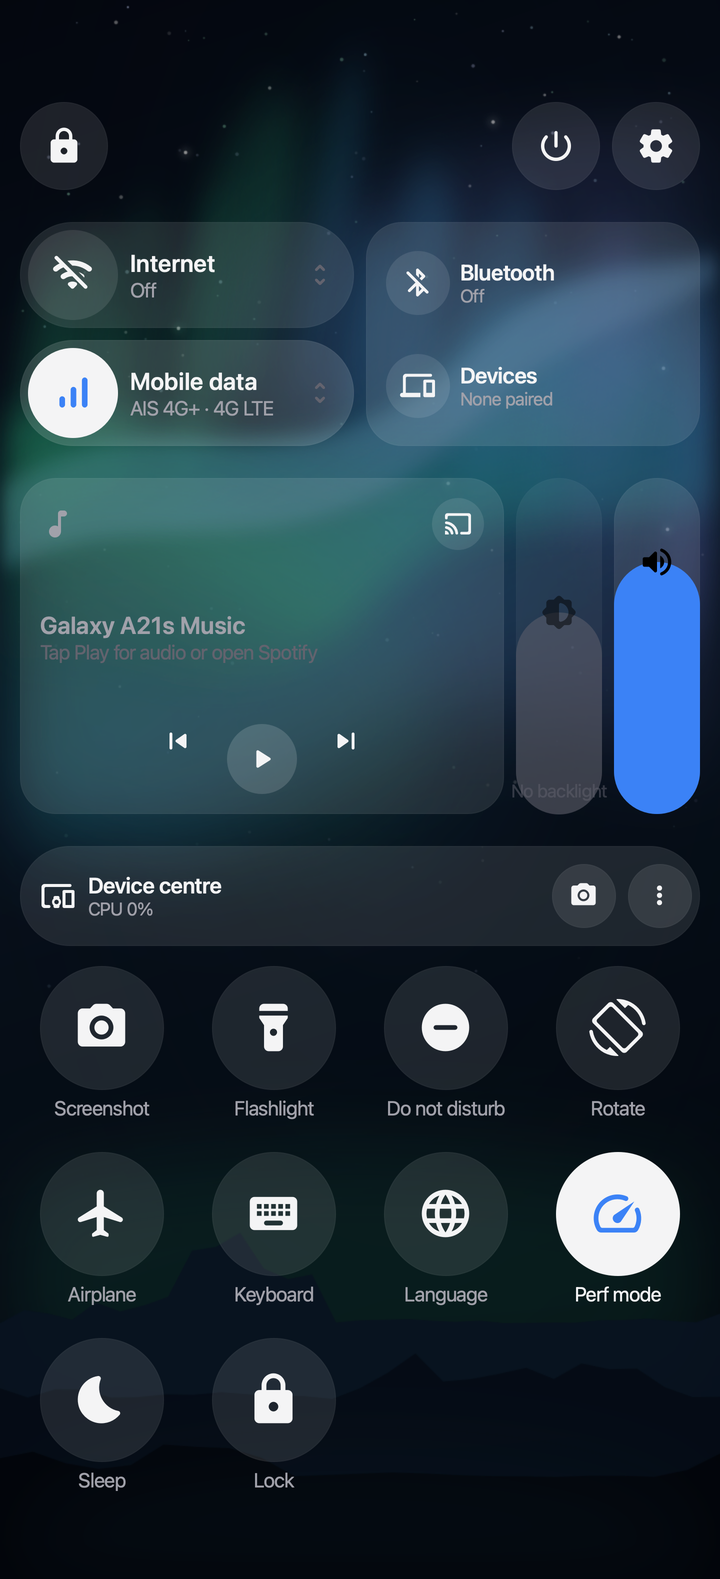
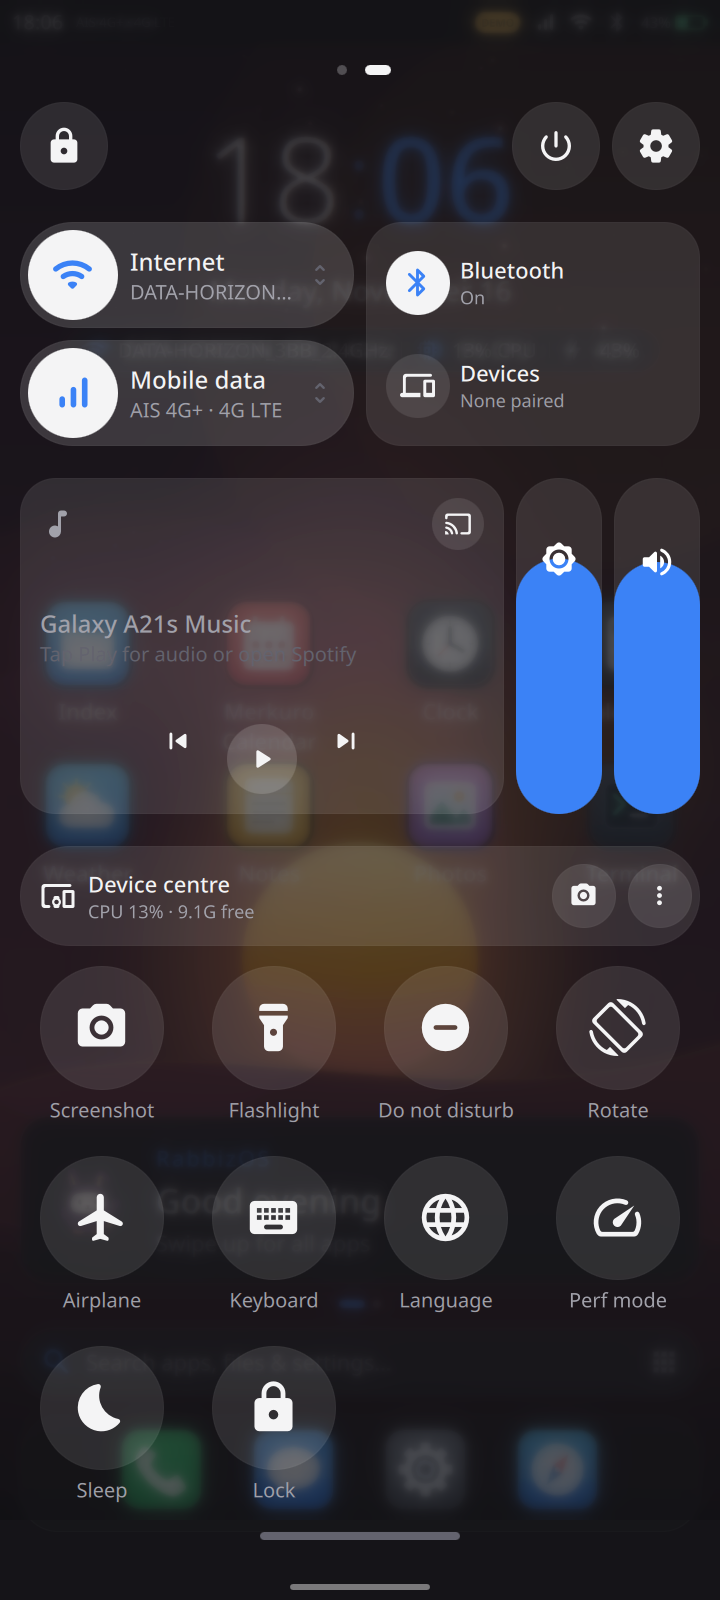
Shade: pager steals drags, fix accent glyph colour (deployed on A21s)
Follow-up to a339df4 after deploying to the phone and exercising it with injected
touches. Three defects only the device could show.

- Shade.qml had lost its A21s.Widgets import when the header pills were removed,
  but still uses BackdropBlur: the whole shade failed to load and the session ran
  with no shell UI until the import came back.
- Page swiping only worked in the 20 px gutters: the tiles, cards and sliders are
  MouseAreas that swallow drags, so the old MouseArea-based pager never saw them.
  The pager is now a DragHandler with grabPermissions CanTakeOverFromAnything and
  xAxis only, so a sideways drag over any tile switches pages while vertical
  drags still scroll, move sliders and pull the sheet closed.
- ShellPrefs.onAccentColor has always evaluated to black: QML parses
  "on<Capitalized>" next to the sibling accentColor property as a signal handler,
  so the declaration never receives its initialiser (Theme.qml documents the same
  trap for primaryContent). The shade now uses the new ShellPrefs.accentContent;
  the legacy name is untouched for the apps that still bind it - sweeping those
  callers is a separate change.

ipc shade state now also reports page, mode, pageHeight, controlsContent and
controlsScrolling, which is how the fit and the pager were measured.

Verified on the A21s (720x1600, clean quickshell log): category grouping and
per-app collapse, tap-to-expand, x dismiss, clear-all, page swipes both
[…]

diff --git a/shell/A21s/Panels/Shade.qml b/shell/A21s/Panels/Shade.qml
@@ -5,6 +5,7 @@ import QtQuick
 import QtQuick.Layouts
 import A21s.Theme
 import A21s.Services
+import A21s.Widgets
 
 // Pull-down notification / quick-settings shade.
 //
@@ -79,7 +80,10 @@ PanelWindow {
             return JSON.stringify({ progress: ShellState.shadeProgress, gpu: win.gpu,
                 captured: backdrop.hasContent, sourceWidth: backdrop.sourceSize.width,
                 sourceHeight: backdrop.sourceSize.height, windowHeight: win.height,
-                visibleHeight: win.visibleHeight })
+                visibleHeight: win.visibleHeight, page: win.pageShift,
+                mode: ShellState.shadeMode, pageHeight: ctrlPage.height,
+                controlsContent: quickControls.contentHeight,
+                controlsScrolling: quickControls.scrolling })
         }
     }
     readonly property bool gpu: content.GraphicsInfo.api === GraphicsInfo.OpenGL
@@ -100,7 +104,6 @@ PanelWindow {
         interval: 250
         running: win.gpu && ShellState.shadeProgress > 0 && !backdrop.hasContent
     }
-    property real pageDragStart: 0.0
     Behavior on pageShift {
         enabled: !win.pageDragging
         NumberAnimation { duration: Theme.animMed; easing.type: Easing.OutCubic }
@@ -126,51 +129,30 @@ PanelWindow {
             preventStealing: true
 
             property real pressY: 0
-            property real pressX: 0
             property real pressProgress: 0
 
             onPressed: function(mouse) {
                 snap.stop()
                 pressY = mouse.y
-                pressX = mouse.x
                 pressProgress = ShellState.shadeProgress
-                win.pageDragging = false
-                win.pageDragStart = win.pageShift
                 if (ShellState.shadeProgress < 0.05) {
                     ShellState.shadeMode = mouse.x < win.width / 2 ? "notifications" : "settings"
                     win.pageShift = ShellState.shadeMode === "settings" ? 1.0 : 0.0
                 }
             }
             onPositionChanged: function(mouse) {
-                if (!pressed)
+                if (!pressed || win.pageDragging)
                     return
-                const dy = mouse.y - pressY
-                const dx = mouse.x - pressX
-                // Decide the axis once: once the gesture is clearly sideways the page
-                // follows the finger and the vertical progress is frozen.
-                if (!win.pageDragging && Math.abs(dx) > 14 && Math.abs(dx) > Math.abs(dy) * 1.2)
-                    win.pageDragging = true
-                if (win.pageDragging) {
-                    win.pageShift = Math.max(0, Math.min(1, win.pageDragStart - dx / win.width))
-                    return
-                }
+                // Vertical only: sideways page drags are owned by the DragHandler
+                // below, which can steal the grab from tiles and sliders.
                 const range = Math.max(1, win.fullH - Theme.shadeHandleZone)
                 ShellState.shadeProgress = Math.max(0, Math.min(1,
-                    pressProgress + dy / range))
+                    pressProgress + (mouse.y - pressY) / range))
             }
             onReleased: function(mouse) {
-                const dy = mouse.y - pressY
-                const dx = mouse.x - pressX
-                if (win.pageDragging) {
-                    // past 35 % of the width (or a clear flick) commits the page
-                    const target = (Math.abs(dx) > win.width * 0.35)
-                        ? (dx < 0 ? 1.0 : 0.0)
-                        : (win.pageShift > 0.5 ? 1.0 : 0.0)
-                    win.pageDragging = false            // re-enable the Behavior
-                    win.setPage(target >= 0.5 ? "settings" : "notifications")
-                    win.snapTo(1)
+                if (win.pageDragging)
                     return
-                }
+                const dy = mouse.y - pressY
                 const tap = Math.abs(dy) < Theme.spaceS
                 if (tap) {
                     if (!ShellState.shadeOpen)
@@ -180,6 +162,43 @@ PanelWindow {
                 } else {
                     win.snapTo(ShellState.shadeProgress > 0.3 ? 1 : 0)
                 }
+            }
+        }
+
+        // Horizontal pager. A DragHandler (not a MouseArea) so it can take the
+        // grab from the tiles, sliders and cards underneath: only x-axis motion
+        // activates it, so vertical drags still scroll the list, move the
+        // sliders and pull the shade closed.
+        DragHandler {
+            id: pageDrag
+            target: null
+            dragThreshold: 12
+            xAxis.enabled: true
+            yAxis.enabled: false
+            grabPermissions: PointerHandler.CanTakeOverFromAnything
+
+            property real startShift: 0
+            property real lastDx: 0
+
+            onActiveChanged: {
+                if (active) {
+                    startShift = win.pageShift
+                    lastDx = 0
+                    win.pageDragging = true
+                } else if (win.pageDragging) {
+                    win.pageDragging = false            // re-enable the Behavior
+                    // past 30 % of the width (or a clear flick) commits the page
+                    const target = Math.abs(lastDx) > win.width * 0.3
+                        ? (lastDx < 0 ? 1.0 : 0.0)
+                        : (win.pageShift > 0.5 ? 1.0 : 0.0)
+                    win.setPage(target >= 0.5 ? "settings" : "notifications")
+                }
+            }
+            onTranslationChanged: {
+                if (!active)
+                    return
+                lastDx = activeTranslation.x
+                win.pageShift = Math.max(0, Math.min(1, startShift - lastDx / win.width))
             }
         }
 
@@ -302,6 +321,7 @@ PanelWindow {
                             enabled: win.pageShift >= 0.5
 
                             QuickSettings {
+                                id: quickControls
                                 anchors.fill: parent
                             }
                         }

diff --git a/shell/A21s/Panels/QuickSettings.qml b/shell/A21s/Panels/QuickSettings.qml
@@ -24,6 +24,11 @@ Item {
     implicitWidth: 400
     implicitHeight: column.implicitHeight
 
+    // Introspection for the shade's `ipc shade state` endpoint: whether the
+    // sheet overflows (and therefore takes the vertical drag) at this height.
+    readonly property real contentHeight: column.implicitHeight
+    readonly property bool scrolling: scroller.interactive
+
     Process {
         id: settingsProc
         environment: Appearance.appEnvironment
@@ -333,7 +338,7 @@ Item {
                                         anchors.centerIn: parent
                                         name: Media.isPlaying ? "pause" : "play_arrow"
                                         size: Theme.fontTitle
-                                        color: Media.isPlaying ? ShellPrefs.onAccentColor : Theme.text
+                                        color: Media.isPlaying ? ShellPrefs.accentContent : Theme.text
                                     }
                                     TapHandler { onTapped: Media.togglePlaying() }
                                 }

diff --git a/shell/A21s/Widgets/QSSliderVertical.qml b/shell/A21s/Widgets/QSSliderVertical.qml
@@ -58,7 +58,7 @@ Item {
             name: root.materialIcon
             size: Theme.fontTitle + 4
             color: (glyph.y + glyph.height > glyph.fillTop)
-                ? ShellPrefs.onAccentColor : Theme.text
+                ? ShellPrefs.accentContent : Theme.text
         }
 
         Text {

diff --git a/docs/a21s-phone-shell.md b/docs/a21s-phone-shell.md
@@ -114,10 +114,9 @@ pager with dots instead of the old "Notifications | Controls" tab bar.
 |---|---|
 | ![Controls sheet](shade-controls-preview.png) | ![Notification sheet](shade-notifications-preview.png) |
 
-*(Both are real QML renders of `QuickSettings.qml` / `NotificationCenter.qml` in
-the 720 px-wide phone frame, captured offscreen with stubbed `Quickshell` types —
-not device screenshots. The status bar is drawn by `StatusBar.qml`, so it is
-absent; host window decoration trims the height to 1579 px.)*
+*(Device screenshots of `DSI-1` at 720x1600, 2026-11-16, with notifications
+injected through `notify-send` so the grouping is visible. The status bar is a
+separate `PanelWindow` and therefore not part of the captured sheet.)*
 
 ### Composition
 
@@ -164,14 +163,39 @@ conversation, not an ad. Promotions render dimmed and always last.
   ON state inverts the well to `Theme.text` with an accent glyph.
 - `Panels`: `NotificationCard` (replaces `NotificationItem`), `NotificationGroups.js`.
 
-### Verifying without the device
+### Verification
 
-`tools/shade-preview/preview.py` renders these pages offscreen with the real QML
-(stubbed `Quickshell` types) — see [its README](../tools/shade-preview/README.md).
-`qmllint -I shell <file>` (Qt 6.12) reports no syntax or missing-property errors
-on the new files. **On-device verification is still pending** — the A21s was
-unreachable (no `usb0`, no LAN host) when this landed; re-check the sheet on the
-phone, then refresh these previews if the fonts/metrics shift.
+Deployed and exercised on the A21s on 2026-11-16 (`/usr/share/a21s-shell`,
+`a21s-shell` restarted, clean `quickshell` log). Checked with injected touches
+(`a21s-touch`) and screenshots (`grim`): category grouping and per-app collapse,
+tap-to-expand, the × and the clear-all button, page swiping in both directions
+starting on tiles/cards, dot taps, tile toggles, and vertical slider drags
+(brightness 163→209, volume 71→52). `ipc shade state` now also reports
+`page` / `pageHeight` / `controlsContent` / `controlsScrolling`.
+
+Two defects only the device could show, both fixed:
+
+- `Shade.qml` lost its `A21s.Widgets` import while the header pills were removed,
+  but still uses `BackdropBlur` — the whole shade failed to load until the import
+  came back.
+- **`ShellPrefs.onAccentColor` has always been black.** QML parses
+  `on<Capitalized>` next to a sibling `xxx` property as a *signal handler*, so the
+  declaration never receives its initialiser (the same trap `Theme.qml` documents
+  for `primaryContent`). Shade glyphs now use the new `ShellPrefs.accentContent`;
+  the legacy name is kept for the apps that still bind it (a separate sweep).
+
+Page swiping needed a `DragHandler` in `Shade.qml` with
+`grabPermissions: PointerHandler.CanTakeOverFromAnything`: the tiles, cards and
+sliders are `MouseArea`s that swallow drags, so a `MouseArea`-only pager could
+only work in the 20 px gutters. The handler is x-axis only, so vertical drags
+still scroll, move sliders and pull the sheet closed.
+
+### Iterating without the device
+
+`tools/shade-preview/preview.py` renders both pages offscreen with the real QML
+(stubbed `Quickshell` types) — see [its README](../tools/shade-preview/README.md);
+`qmllint -I shell <file>` (Qt 6.12) catches syntax and missing properties. Neither
+excuses checking the phone: both device defects above passed both tools.
 
 ## App layer (added 2026-11-15)
 

diff --git a/ROADMAP.md b/ROADMAP.md
@@ -83,7 +83,7 @@
   - [x] Dialer app + Telephony facade (demo mode) (W4)
   - [x] SMS app (W5)
   - [x] StatusBar + notification daemon/shade list (W6)
-  - [x] Shade regrouped One UI 7-style: category sections (Conversations/Devices/Apps/Promotions), per-app group cards, vertical brightness/volume, action grid (2026-11-16, docs/a21s-phone-shell.md § Shade UI)
+  - [x] Shade regrouped One UI 7-style: category sections (Conversations/Devices/Apps/Promotions), per-app group cards, vertical brightness/volume, action grid (2026-11-16, deployed + verified on the A21s, docs/a21s-phone-shell.md § Shade UI)
   - [x] On-device deployment & bring-up: install 44 packages, enable `a21s-phone-session.service`, verify `labwc` + `quickshell` + all 7 `a21s-*` apps + `brightnessctl` + `wpctl status` on `DSI-1`
   - [ ] **M7 v2 (branch `feat/desktop-shell-rewrite`, plan [docs/DESKTOP-SHELL.md](docs/DESKTOP-SHELL.md))**: M7.0 retrofit modules → M7.1 launch slice → M7.2 desktop contract → M7.3 desktop surface → M7.4 replace base apps → M7.5 form factors → M7.6 close morph → M7.7 mouse/kbd/gamepad → M7.8 Settings v2 → M7.9 gestures (core done) → M7.10 home drag & drop → M7.11 clipboard → M7.12 on-screen keyboard rework. M7.0/7.1/7.2/7.4 done (verified on device); Steam runs in a nested Weston window (ADR-8). Handoff: [docs/HANDOFF-DESKTOP-SHELL.md](docs/HANDOFF-DESKTOP-SHELL.md).
   - [ ] Real telephony backend when M6 lands (`Telephony.backend` hook / `mm-backend.sh` reference)
